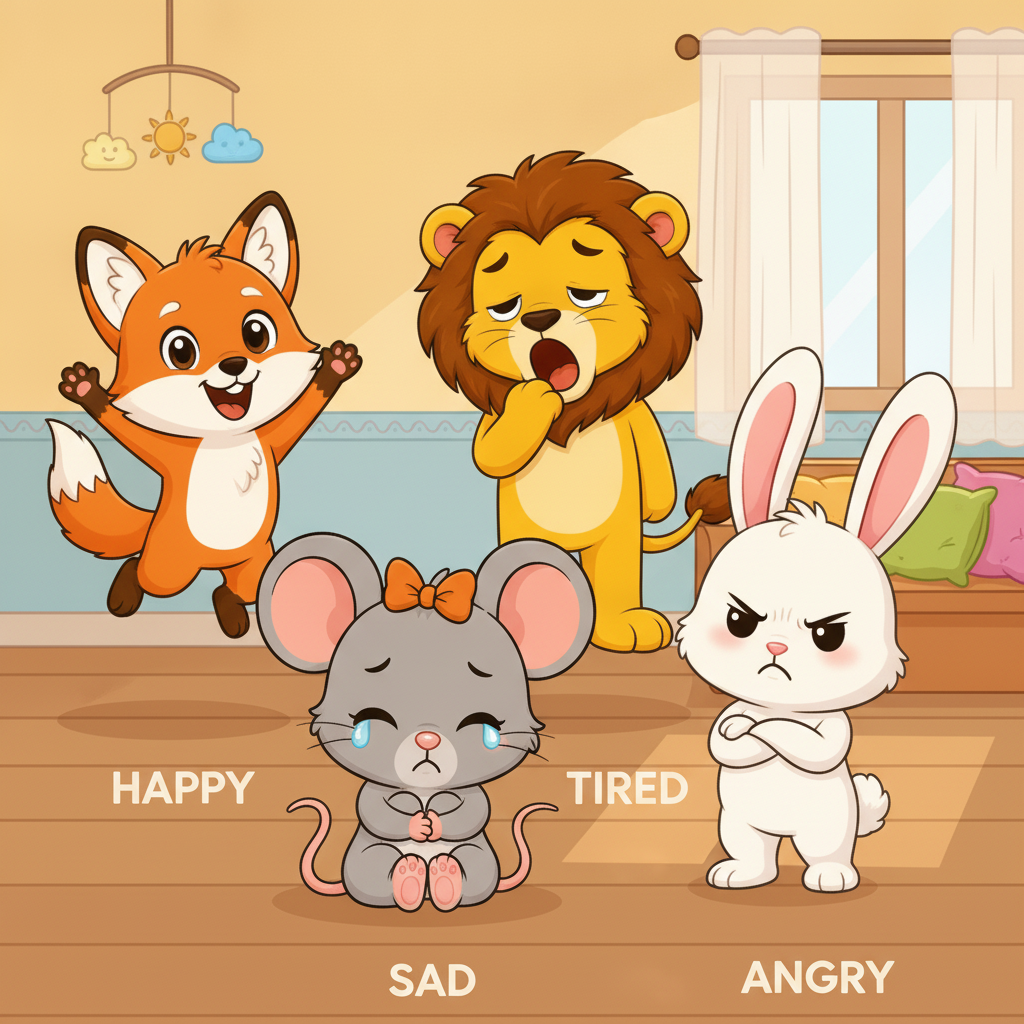
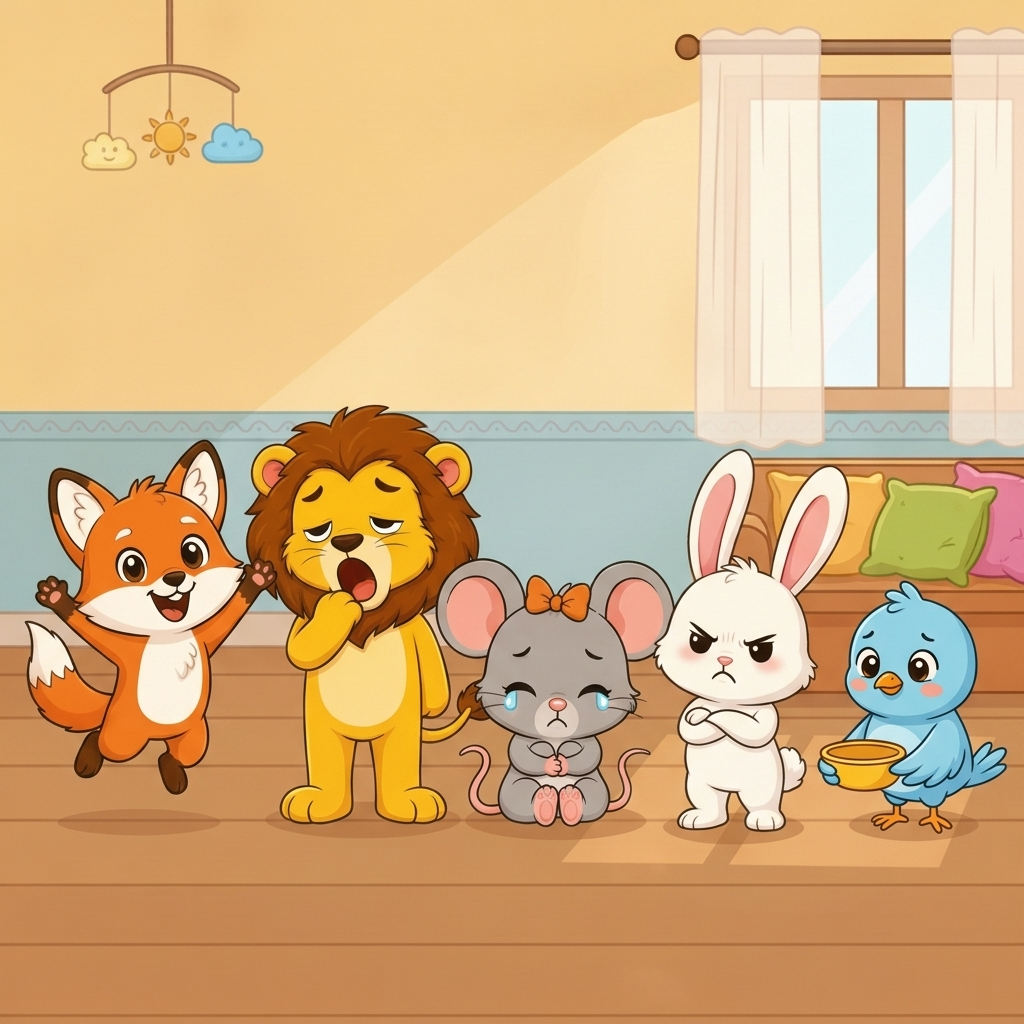
A1 Unit 1 Lesson 2: regenerate feelings art, add Hungry, add He/She/They
Regenerated bg-classroom-feelings.png: the old version had the answer words
("HAPPY", "TIRED", "SAD", "ANGRY") baked directly into the artwork as text,
which handed the answer to the child for the vocab-spot, drag-match, AND
choice scenes that all reuse this background — the exact activity it was
meant to test. New version keeps the same characters/style/room but is
text-free, and adds a 5th character (Willow, hungry, holding a bowl) for
the newly-added feeling, completing the full 5-character cast.

Data fixes: 'Tired' and 'Angry' items were missing their `who` field
entirely (fell back to a generic 'teacher' voice) despite the sentences
naming Leo and Bella specifically — fixed to match the established
who=leo/bella pattern the other two items already had.

Widened drag-match's hit-tolerance for vocab-matching drops (items with no
showBlanks landing box, i.e. dropping onto a full character illustration
rather than a small drawn blank) from 0.14 to 0.22 of the container's
smaller dimension — reported as rejecting clearly-correct drops (e.g. onto
Mia) that just weren't within a few pixels of her exact anchor point.
Sentence-builder (showBlanks) drops keep the original tighter tolerance.

Added a He/She/They section right after the feelings practice, reusing the
same three-step pattern ("How are you?" already used earlier in this
lesson) instead of a new mechanic: roleplay models the three pronouns
against characters just taught, three choice scenes practice recognizing
[…]

diff --git a/src/content/playground-library/welcome-town/scenes.ts b/src/content/playground-library/welcome-town/scenes.ts
@@ -392,7 +392,7 @@ export const LESSON_1_SCENES: Scene[] = [
  * ========================================================================= */
 
 export const LESSON_2_TITLE = 'How Are You?';
-export const LESSON_2_OBJECTIVE = 'Part 1: Ask and answer "How are you?" and name a feeling (happy, sad, tired, angry). Part 2: Learn the sounds P, I, N and read three more real words.';
+export const LESSON_2_OBJECTIVE = 'Part 1: Ask and answer "How are you?", name a feeling (happy, sad, tired, angry, hungry), and use He, She and They to say how a friend feels. Part 2: Learn the sounds P, I, N and read three more real words.';
 
 export const LESSON_2_SCENES: Scene[] = [
   { id: 'wt2-title', kind: 'title-card', bg: bgWide, level: 'A1', unit: 'Unit 1', lessonLabel: 'Lesson 2', title: 'How Are You?', subtitle: 'Say hello, then share how you feel today', cta: '\u{1F392} LET’S GO!' },
@@ -423,10 +423,11 @@ export const LESSON_2_SCENES: Scene[] = [
     id: 'wt2-vocab-feelings', kind: 'vocab-spot', bg: bgFeelings,
     teacher: 'Look at each friend! Tap the arrow to learn how they feel.',
     items: [
-      { label: 'Happy', sentence: 'Pip is happy.', emoji: '\u{1F60A}', left: '17%', top: '55%', color: '#FE6A2F', who: 'pip' },
-      { label: 'Sad', sentence: 'Mia is sad.', emoji: '\u{1F622}', left: '40%', top: '62%', color: '#B85CD1', who: 'mia' },
-      { label: 'Tired', sentence: 'Leo is tired.', emoji: '\u{1F62A}', left: '63%', top: '58%', color: '#C97A2F' },
-      { label: 'Angry', sentence: 'Bella is angry.', emoji: '\u{1F620}', left: '86%', top: '55%', color: '#E76FA5' },
+      { label: 'Happy', sentence: 'Pip is happy.', emoji: '\u{1F60A}', left: '14%', top: '58%', color: '#FE6A2F', who: 'pip' },
+      { label: 'Tired', sentence: 'Leo is tired.', emoji: '\u{1F62A}', left: '33%', top: '60%', color: '#C97A2F', who: 'leo' },
+      { label: 'Sad', sentence: 'Mia is sad.', emoji: '\u{1F622}', left: '52%', top: '64%', color: '#B85CD1', who: 'mia' },
+      { label: 'Angry', sentence: 'Bella is angry.', emoji: '\u{1F620}', left: '71%', top: '62%', color: '#E76FA5', who: 'bella' },
+      { label: 'Hungry', sentence: 'Willow is hungry.', emoji: '\u{1F924}', left: '90%', top: '64%', color: '#4FA9E0', who: 'willow' },
     ],
   },
 
@@ -436,10 +437,11 @@ export const LESSON_2_SCENES: Scene[] = [
     // drag-match scenes.
     id: 'wt2-drag-feelings', kind: 'drag-match', bg: bgFeelings, teacher: 'Listen, then drag each word onto the friend who feels that way!',
     items: [
-      { label: 'Happy', color: '#FE6A2F', who: 'pip', targetLeft: '17%', targetTop: '55%' },
-      { label: 'Sad', color: '#B85CD1', who: 'mia', targetLeft: '40%', targetTop: '62%' },
-      { label: 'Tired', color: '#C97A2F', targetLeft: '63%', targetTop: '58%' },
-      { label: 'Angry', color: '#E76FA5', targetLeft: '86%', targetTop: '55%' },
+      { label: 'Happy', color: '#FE6A2F', who: 'pip', targetLeft: '14%', targetTop: '58%' },
+      { label: 'Tired', color: '#C97A2F', who: 'leo', targetLeft: '33%', targetTop: '60%' },
+      { label: 'Sad', color: '#B85CD1', who: 'mia', targetLeft: '52%', targetTop: '64%' },
+      { label: 'Angry', color: '#E76FA5', who: 'bella', targetLeft: '71%', targetTop: '62%' },
+      { label: 'Hungry', color: '#4FA9E0', who: 'willow', targetLeft: '90%', targetTop: '64%' },
     ],
   },
 
@@ -469,6 +471,54 @@ export const LESSON_2_SCENES: Scene[] = [
       { label: 'Happy', emoji: '\u{1F60A}', correct: true },
       { label: 'Sad', emoji: '\u{1F622}' },
       { label: 'Tired', emoji: '\u{1F62A}' },
+      { label: 'Hungry', emoji: '\u{1F924}' },
+    ],
+  },
+
+  /* --- New words: He, She, They — built directly on the five feelings
+   * just taught, never re-teaching the feeling words themselves, only the
+   * new grammar operating on them. Reuses roleplay (model) + choice
+   * (practice) + join-stage (produce), the same three-step pattern already
+   * used for "How are you?" earlier in this lesson, rather than inventing
+   * a dedicated pronoun mechanic. */
+  {
+    id: 'wt2-pronoun-model', kind: 'roleplay', bg: bgFeelings, teacher: 'New words! Listen to Miss Marigold, then repeat.', cast: ['marigold'],
+    script: [
+      { who: 'marigold', line: 'Look at Pip! He is happy.', repeat: true },
+      { who: 'marigold', line: 'Look at Mia! She is sad.', repeat: true },
+      { who: 'marigold', line: 'Look at Leo and Willow! They are tired and hungry.', repeat: true },
+    ],
+  },
+  {
+    id: 'wt2-pronoun-choice-1', kind: 'choice', bg: bgFeelings, who: 'marigold', teacher: 'Listen carefully, then tap the right word!',
+    prompt: 'Pip is a boy. Which word means Pip?',
+    options: [
+      { label: 'He', emoji: '\u{1F466}', correct: true },
+      { label: 'She', emoji: '\u{1F467}' },
+    ],
+  },
+  {
+    id: 'wt2-pronoun-choice-2', kind: 'choice', bg: bgFeelings, who: 'marigold', teacher: 'Listen carefully, then tap the right word!',
+    prompt: 'Mia is a girl. Which word means Mia?',
+    options: [
+      { label: 'She', emoji: '\u{1F467}', correct: true },
+      { label: 'He', emoji: '\u{1F466}' },
+    ],
+  },
+  {
+    id: 'wt2-pronoun-choice-3', kind: 'choice', bg: bgFeelings, who: 'marigold', teacher: 'Listen carefully, then tap the right word!',
+    prompt: 'Leo and Willow are two friends. Which word means both of them?',
+    options: [
+      { label: 'They', emoji: '\u{1F46B}', correct: true },
+      { label: 'He', emoji: '\u{1F466}' },
+    ],
+  },
+  {
+    id: 'wt2-pronoun-join', kind: 'join-stage', bg: bgFeelings, teacher: 'Your turn! Point to a friend and say He or She!', cast: ['pip', 'mia', 'marigold'],
+    turns: [
+      { who: 'marigold', line: 'Point to a friend. Is your friend a boy or a girl?' },
+      { who: 'student', line: 'He is ______. / She is ______.' },
+      { who: 'pip', line: 'Great practice!' },
     ],
   },
 

diff --git a/src/content/playground-library/welcome-town/SceneRenderer.tsx b/src/content/playground-library/welcome-town/SceneRenderer.tsx
@@ -622,7 +622,14 @@ function DragMatchScene({ scene, onNext, onWin, onLose }: { scene: Extract<Scene
         const targetX = rect.left + (parseFloat(item.targetLeft) / 100) * rect.width;
         const targetY = rect.top + (parseFloat(item.targetTop) / 100) * rect.height;
         const dist = Math.hypot(e.clientX - targetX, e.clientY - targetY);
-        const tolerance = Math.min(rect.width, rect.height) * 0.14;
+        // Vocab-matching drops (no showBlanks landing-zone box drawn) land
+        // anywhere on a full character illustration, not a pinpoint — 0.14
+        // was tight enough that dropping on a visibly-correct character
+        // (e.g. Mia) still missed and registered as wrong. Widened so the
+        // whole character's rendered footprint is a comfortable hit area;
+        // sentence-builder (showBlanks) drops stay tighter since those have
+        // a small drawn blank to aim at, not a full illustration.
+        const tolerance = Math.min(rect.width, rect.height) * (scene.showBlanks ? 0.14 : 0.22);
         if (dist <= tolerance) {
           sfx.match();
           setPlaced((prev) => {
